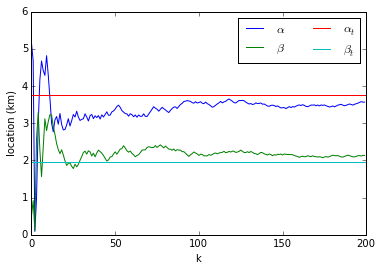
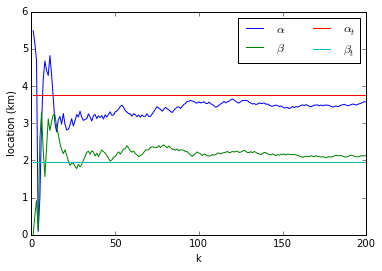
Comments, non-cheat fmin

Changed region(s): [[0.0864, 0.1181, 0.9503, 0.8561], [0.6911, 0.3542, 0.9503, 0.4133]]

diff --git a/assignment-2/exercise2_2and3.py b/assignment-2/exercise2_2and3.py
@@ -8,19 +8,23 @@ import math
 import numpy as np
 import scipy
 from matplotlib import pyplot as plt
-from mpl_toolkits.mplot3d import Axes3D
 from matplotlib import cm
+
 
 def generate_data(a,b,n):
     data = []
+    
     for _ in xrange(n):
+        #Angle of the light flash (theta)
         angle = np.random.uniform(0.5*-math.pi, 0.5*math.pi)
         value = b*math.tan(angle)+a
         data.append(value)
     
     return data
 
+
 def generate_random_position():
+    # position (alpha and beta) is drawn from a uniform distribution
     a = np.random.uniform(0.00,10.0)
     b = np.random.uniform(1.0,2.0)
     return a,b
@@ -29,7 +33,6 @@ def generate_random_position():
 
 def plot_mean_over_time(data):
     
-    
     actual_mean = sum(data)/len(data)
     print "Actual mean:", actual_mean
     
@@ -37,7 +40,8 @@ def plot_mean_over_time(data):
     x = xrange(len(data))
     for i in x:
         means.append( sum(data[:i+1])/(i+1))
-        
+    
+    #Make plot
     plt.plot(x, means, label="Running mean")
     plt.plot(x, [actual_mean]*len(data), 'c-',label="Actual mean")
     plt.legend()
@@ -48,14 +52,18 @@ def plot_mean_over_time(data):
 def plot_likelihood(data):
     a_grid,b_grid = np.meshgrid(np.linspace(-10,10,1000), np.linspace(0,5,1000))
     
+    #Colorbar lower bounds
     vmins = [-20,-30,-40,-240]    
     
     for k,v in zip([1,2,3,20],vmins):
         constant = k * np.log(b_grid/math.pi)
         log_llh = constant
+        
+        #Calculate for up to datapoint k+1
         for x_k in data[:k+1]:
             log_llh = log_llh - np.log((x_k - a_grid)**2 + b_grid**2)
     
+        #Plot
         fig = plt.figure(k)
         ax = fig.add_subplot(111, projection='3d')
         plt.title("Log likelihood for k = " + str(k))
@@ -64,8 +72,11 @@ def plot_likelihood(data):
         surf = ax.plot_surface(a_grid,b_grid, log_llh, cmap=cm.winter, vmin=v, vmax=0, linewidth=0.05,rstride=5, cstride=5)
         plt.colorbar(surf, shrink=1,aspect=30)
 
+
+#Function to minimize using "scipy.optimize.fmin" (instead of fminsearch in MATLAB)
 def log_likelihood(x, data):
     a,b = x
+    
     constant = len(data) * np.log(b/math.pi)
     log_llh = constant
     for x_k in data:
@@ -79,13 +90,16 @@ def plot_likelihood_function_of_k(data,a,b):
     a_values = []
     b_values = []
     
-    k_values = range(len(data))   
-    
-    for _k in k_values:
+    #K values to plot on the x-axis
+    k_values = range(1,len(data)+1) 
+
+    for k in k_values:
+        #Initial guess
         a_guess = 0
         b_guess = 1
-        k = _k+1
-        [max_a, max_b] = scipy.optimize.fmin(log_likelihood,[a_guess, b_guess], args = (data[:k+1],))
+        
+        [max_a, max_b] = scipy.optimize.fmin(log_likelihood,[a_guess, b_guess], args = (data[:k],))
+        
         a_values.append(max_a)
         b_values.append(max_b)
     
@@ -97,12 +111,24 @@ def plot_likelihood_function_of_k(data,a,b):
     plt.legend(ncol=2)
     plt.xlabel('k')
     plt.ylabel('location (km)')
+    
+    #Print some values
+    print "Found a:", (a_values[-1])
+    print "Found b:", (b_values[-1])
+    print "True a - found a:", (a-a_values[-1])
+    print "True b - found b:", (b-b_values[-1])
+    print "True a:", (a)
+    print "True b:", (b)
 
 if __name__ == "__main__":
     np.random.seed(42)
+    
+    #a=3.74540, b=1.95071 with the above seed 42
     a,b = generate_random_position()
+    
     print "Lighthouse position: alpha=",a, "beta=",b
+    
     data = generate_data(a,b,200)
     plot_mean_over_time(data)
-    #plot_likelihood(data)
+    plot_likelihood(data)
     plot_likelihood_function_of_k(data,a,b)
